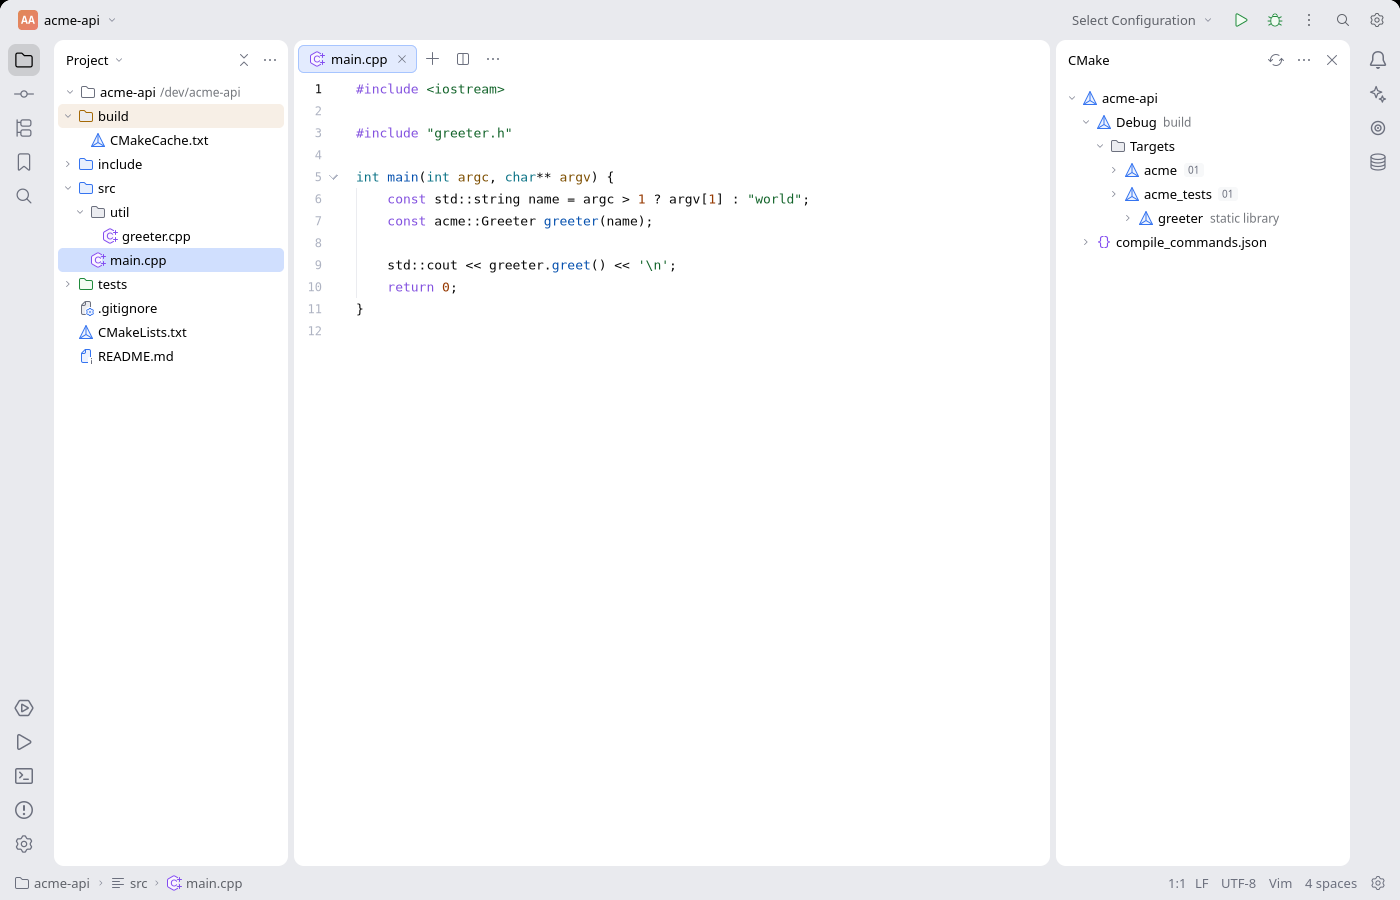
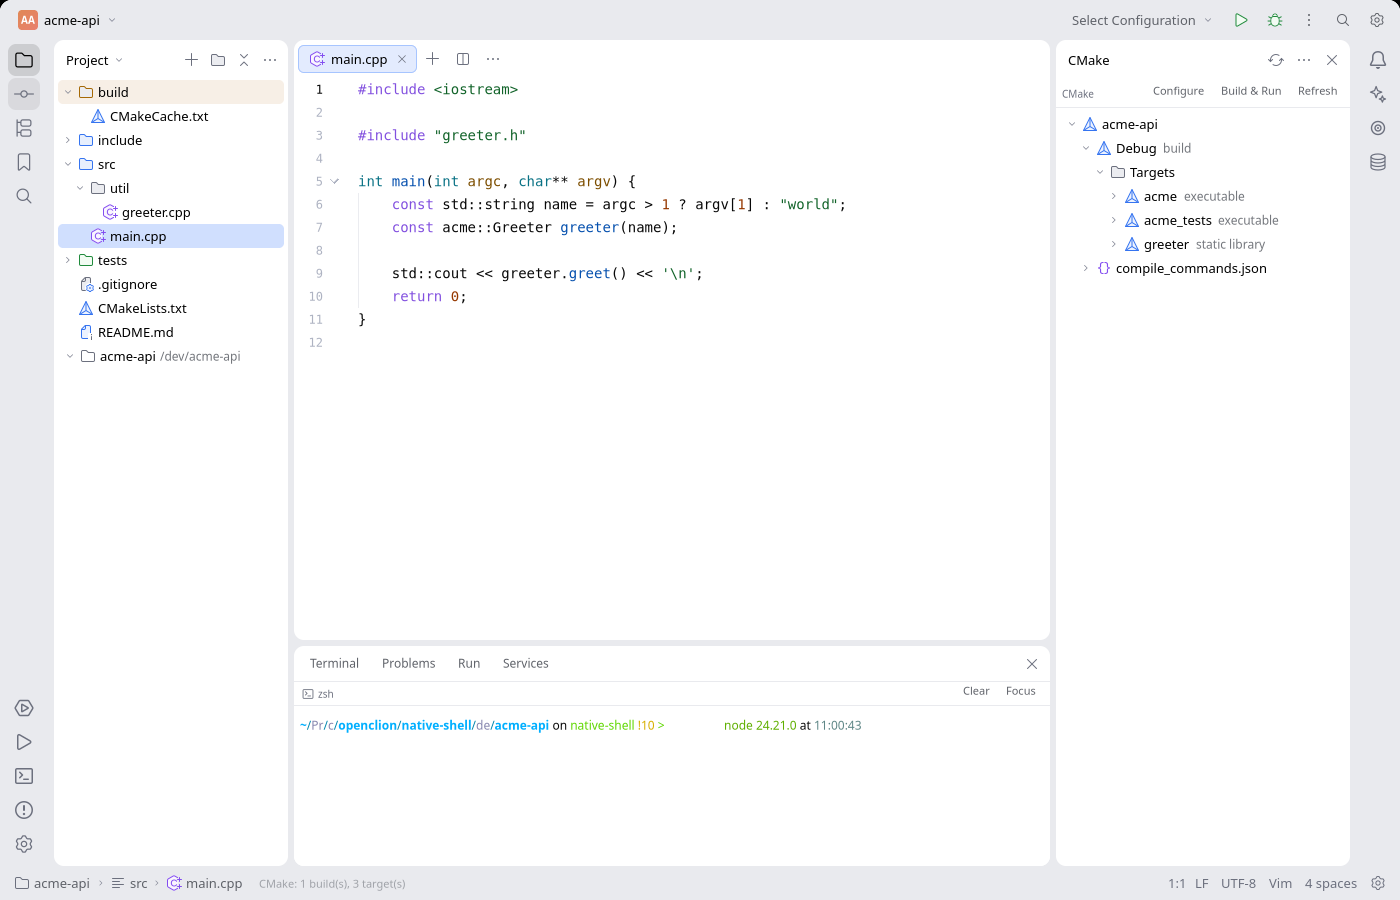
fix(native-shell): visible CMake/Commit actions, terminal chrome and bottom project root
CMake gains a labelled Configure / Build & Run / Refresh toolbar. Commit gains a message field and Commit button backed by ide-vcs stage+commit (Ctrl+K). The Terminal gets a padded surface, zsh/Clear/Focus toolbar, automatic focus and a taller default panel. The project root is now a bottom row with an upward chevron; clicking it collapses the whole project and clicking again expands the root. Added Alt+1 for Project.

diff --git a/native-shell/src/ui/panels.rs b/native-shell/src/ui/panels.rs
@@ -70,6 +70,31 @@ fn header_action(pal: Palette, markup: &'static str, on_press: impl Fn() + 'stat
 }
 
 fn cmake_body(state: State, pal: Palette) -> impl IntoElement {
+    view()
+        .flex_col()
+        .w_full()
+        .h_full()
+        .child(
+            view()
+                .h(px(28.0))
+                .flex_none()
+                .w_full()
+                .flex_row()
+                .items_center()
+                .gap(px(4.0))
+                .px(px(6.0))
+                .border_b_1()
+                .border_color(pal.border)
+                .child(text_muted("CMake", 10.0, pal))
+                .child(view().flex_1())
+                .child(debug_text_button(pal, "Configure", move || state.configure_cmake()))
+                .child(debug_text_button(pal, "Build & Run", move || state.run_active_configuration()))
+                .child(debug_text_button(pal, "Refresh", move || state.refresh_cmake())),
+        )
+        .child(cmake_tree(state, pal))
+}
+
+fn cmake_tree(state: State, pal: Palette) -> impl IntoElement {
     scroll().flex_1().w_full().min_h(px(0.0)).child(dynamic(move || {
         let model = state.cmake.get();
         let mut rows: Vec<View> = Vec::new();
@@ -731,21 +756,52 @@ fn terminal_body(state: State, pal: Palette) -> impl IntoElement {
             crate::terminal::flush(state);
         });
     });
-    view().flex_1().w_full().min_h(px(0.0)).p(px(4.0)).bg(pal.bg_island).child(
-        nsh_base::terminal()
-            .component_ref(&state.terminal_ref)
-            .flex_1()
-            .w_full()
-            .font_family(MONO_FONT.family)
-            .font_size(px(12.0))
-            .line_height(px(18.0))
-            .on_data(move |data: &SharedString| crate::terminal::send(state, data))
-            .on_resize(move |event: &nsh_base::TerminalEvent| {
-                if let nsh_base::TerminalEvent::Resize(cols, rows) = event {
-                    crate::terminal::resize(state, *cols, *rows);
-                }
-            }),
-    )
+    effect(move || {
+        if state.show_bottom.get() && state.bottom_tool.get() == Some(BottomTool::Terminal) {
+            set_timeout(std::time::Duration::from_millis(80), move || {
+                crate::terminal::focus(state);
+            });
+        }
+    });
+    view()
+        .flex_col()
+        .flex_1()
+        .w_full()
+        .min_h(px(0.0))
+        .child(
+            view()
+                .h(px(24.0))
+                .flex_none()
+                .w_full()
+                .flex_row()
+                .items_center()
+                .gap(px(4.0))
+                .px(px(8.0))
+                .border_b_1()
+                .border_color(pal.border)
+                .child(icon(icons::TERMINAL, 12.0, pal.fg_muted))
+                .child(text_muted("zsh", 10.0, pal))
+                .child(view().flex_1())
+                .child(debug_text_button(pal, "Clear", move || crate::terminal::clear(state)))
+                .child(debug_text_button(pal, "Focus", move || crate::terminal::focus(state))),
+        )
+        .child(
+            view().flex_1().w_full().min_h(px(0.0)).p(px(6.0)).bg(pal.bg_island).child(
+                nsh_base::terminal()
+                    .component_ref(&state.terminal_ref)
+                    .flex_1()
+                    .w_full()
+                    .font_family(MONO_FONT.family)
+                    .font_size(px(12.0))
+                    .line_height(px(18.0))
+                    .on_data(move |data: &SharedString| crate::terminal::send(state, data))
+                    .on_resize(move |event: &nsh_base::TerminalEvent| {
+                        if let nsh_base::TerminalEvent::Resize(cols, rows) = event {
+                            crate::terminal::resize(state, *cols, *rows);
+                        }
+                    }),
+            ),
+        )
 }
 
 fn problems_body(state: State, pal: Palette) -> impl IntoElement {

diff --git a/native-shell/src/ui/tree_panel.rs b/native-shell/src/ui/tree_panel.rs
@@ -78,13 +78,21 @@ fn project_panel(state: State, pal: Palette) -> impl IntoElement {
                     state.status.set("Project view options".to_owned());
                 })),
         ))
-        .child(scroll().flex_1().w_full().min_h(px(0.0)).child(
-            view().flex_col().w_full().pt(px(0.0)).pb(px(8.0)).child(root_row(state, pal)).child(dynamic(move || {
-                state.tree_rev.get();
-                let rows = state.rows();
-                view().flex_col().w_full().children(rows.into_iter().map(|row| tree_row(state, pal, row)))
-            })),
-        ))
+        .child(
+            scroll().flex_1().w_full().min_h(px(0.0)).child(
+                view()
+                    .flex_col()
+                    .w_full()
+                    .pt(px(0.0))
+                    .pb(px(8.0))
+                    .child(dynamic(move || {
+                        state.tree_rev.get();
+                        let rows = state.rows();
+                        view().flex_col().w_full().children(rows.into_iter().map(|row| tree_row(state, pal, row)))
+                    }))
+                    .child(root_row(state, pal)),
+            ),
+        )
 }
 
 fn root_row(state: State, pal: Palette) -> impl IntoElement {
@@ -111,7 +119,13 @@ fn root_row(state: State, pal: Palette) -> impl IntoElement {
         .on_press(move || {
             let root = state.root.get().to_string_lossy().to_string();
             state.selected.set(Some(root.clone()));
-            state.toggle_dir(&root);
+            let expanded = state.expanded.get();
+            if expanded.is_empty() {
+                state.expanded.set(vec![root]);
+            } else {
+                // The root row doubles as collapse-all for the whole project.
+                state.expanded.set(Vec::new());
+            }
         })
         .on_context_menu(move |event: &ContextMenuEvent| {
             let root = state.root.get();
@@ -233,6 +247,47 @@ fn commit_panel(state: State, pal: Palette) -> impl IntoElement {
                 }))
                 .child(header_action(pal, icons::MORE_HORIZONTAL, move || {})),
         ))
+        .child(
+            view()
+                .h(px(36.0))
+                .flex_none()
+                .w_full()
+                .flex_row()
+                .items_center()
+                .gap(px(6.0))
+                .px(px(8.0))
+                .border_b_1()
+                .border_color(pal.border)
+                .child(
+                    input()
+                        .flex_1()
+                        .h(px(24.0))
+                        .bg(pal.bg_island)
+                        .text_color(pal.fg)
+                        .text_size(px(12.0))
+                        .placeholder("Commit message")
+                        .value(move || state.commit_message.get())
+                        .on_change(move |value: &str| state.commit_message.set(value.to_owned()))
+                        .on_submit(move |_: &str| state.commit_all()),
+                )
+                .child(
+                    view()
+                        .h(px(24.0))
+                        .px(px(10.0))
+                        .items_center()
+                        .justify_center()
+                        .rounded(px(5.0))
+                        .bg(move || {
+                            if state.commit_message.get().trim().is_empty() {
+                                pal.accent.opacity(0.55)
+                            } else {
+                                pal.accent
+                            }
+                        })
+                        .on_press(move || state.commit_all())
+                        .child(text_ui("Commit", 12.0, white().into())),
+                ),
+        )
         .child(scroll().flex_1().child(dynamic(move || {
             let rows = state.vcs.get();
             let loading = state.vcs_loading.get();

diff --git a/native-shell/src/backend.rs b/native-shell/src/backend.rs
@@ -302,6 +302,51 @@ impl State {
         });
     }
 
+    /// Stages every working-tree change and commits it with the typed message.
+    pub fn commit_all(&self) {
+        let message = self.commit_message.get().trim().to_owned();
+        if message.is_empty() {
+            self.status.set("Commit message is empty".to_owned());
+            return;
+        }
+        let root = self.root.get();
+        let state = *self;
+        self.vcs_loading.set(true);
+        spawn(async move {
+            let result = blocking(move || -> Result<String, String> {
+                let Ok(Some(repo)) = Repo::discover(&root) else {
+                    return Err("No git repository".to_owned());
+                };
+                let paths: Vec<PathBuf> = repo
+                    .status()
+                    .map_err(|error| error.message)?
+                    .into_iter()
+                    .filter(|status| status.unstaged.is_some())
+                    .map(|status| status.path.into_path_buf())
+                    .collect();
+                if !paths.is_empty() {
+                    repo.stage(&paths).map_err(|error| error.message)?;
+                }
+                let id = repo.commit(&message, false, false).map_err(|error| error.message)?;
+                Ok(id.chars().take(8).collect())
+            })
+            .await;
+            let result = match result {
+                Ok(inner) => inner,
+                Err(error) => Err(format!("commit task failed: {error}")),
+            };
+            state.vcs_loading.set(false);
+            match result {
+                Ok(id) => {
+                    state.commit_message.set(String::new());
+                    state.status.set(format!("Committed {id}"));
+                    state.refresh_vcs();
+                }
+                Err(error) => state.status.set(format!("Commit failed: {error}")),
+            }
+        });
+    }
+
     /// Reads git status and the current branch in the background.
     pub fn refresh_vcs(&self) {
         let state = *self;

diff --git a/native-shell/src/model.rs b/native-shell/src/model.rs
@@ -189,6 +189,7 @@ pub struct State {
     pub run_chooser: Signal<bool>,
     pub docker: Signal<Option<crate::backend::DockerView>>,
     pub docker_busy: Signal<bool>,
+    pub commit_message: Signal<String>,
     pub debug_watch: Signal<Vec<String>>,
     pub debug_watch_input: Signal<String>,
     pub debug_watch_values: Signal<Vec<crate::debug::WatchValue>>,
@@ -301,6 +302,7 @@ impl State {
             run_chooser: signal(false),
             docker: signal(None),
             docker_busy: signal(false),
+            commit_message: signal(String::new()),
             debug_watch: signal(Vec::new()),
             debug_watch_input: signal(String::new()),
             debug_watch_values: signal(Vec::new()),
@@ -317,7 +319,7 @@ impl State {
             toast: signal(None),
             left_width: signal(234.0),
             right_width: signal(294.0),
-            bottom_height: signal(220.0),
+            bottom_height: signal(260.0),
             show_left: signal(true),
             show_right: signal(true),
             show_bottom: signal(false),

diff --git a/native-shell/src/lib.rs b/native-shell/src/lib.rs
@@ -93,6 +93,14 @@ fn install_shortcuts(state: State) {
         crate::debug::toggle_breakpoint(state, state.cursor.get().0.saturating_sub(1));
     });
     on_key("mod+alt+s", move |_| state.settings.set(true));
+    on_key("alt+1", move |_| {
+        state.left_tool.set(crate::model::LeftTool::Project);
+        state.show_left.set(true);
+    });
+    on_key("ctrl+k", move |_| {
+        state.left_tool.set(crate::model::LeftTool::Commit);
+        state.show_left.set(true);
+    });
     on_key("mod+f", move |_| {
         state.find_open.set(true);
         state.replace_open.set(false);

diff --git a/native-shell/src/terminal.rs b/native-shell/src/terminal.rs
@@ -82,6 +82,19 @@ pub fn flush(state: State) {
     }
 }
 
+/// Gives the Terminal component keyboard focus.
+pub fn focus(state: State) {
+    if let Some(api) = state.terminal_ref.api::<TerminalApi>() {
+        api.focus();
+    }
+}
+
+/// Clears the screen and redraws the prompt in the shell.
+pub fn clear(state: State) {
+    send(state, "clear\n");
+    focus(state);
+}
+
 pub fn send(state: State, data: &str) {
     if let Some(session) = state.terminal_session.get() {
         let _ = session.manager.write(session.id, data);

diff --git a/native-shell/src/settings.rs b/native-shell/src/settings.rs
@@ -27,7 +27,7 @@ impl Default for Persisted {
         Self {
             left_width: 234.0,
             right_width: 294.0,
-            bottom_height: 220.0,
+            bottom_height: 260.0,
             editor_font: 13.0,
             recent: Vec::new(),
             show_left: true,

diff --git a/native-shell/README.md b/native-shell/README.md
@@ -39,27 +39,28 @@ native-shell/
 The shell is not a mock: it links the same `crates/ide-*` crates the Tauri
 backend uses.
 
-| Feature            | Backend                                               | In the shell                                                                                                                                                                                     |
-| ------------------ | ----------------------------------------------------- | ------------------------------------------------------------------------------------------------------------------------------------------------------------------------------------------------ |
-| CMake model        | `ide-cmake` (`load`, File API reply, presets)         | CMake tool window: builds, targets, kinds, `compile_commands.json`; falls back to `add_executable`/`add_library` before the first configure                                                      |
-| Configure          | `cmake -S . -B build` + `ide_cmake::request`          | click the configuration widget; output streams into the Terminal panel                                                                                                                           |
-| Build / Run        | `cmake --build … --target …` + the artifact           | title-bar green Run; output and the program's stdout land in the Terminal                                                                                                                        |
-| Run configurations | `ide-cmake` executables                               | the title-bar widget opens a chooser of CMake executable targets; the selected target drives Run, Debug and the Run tool window                                                                  |
-| Git status         | `ide-vcs` (`Repo::discover`, `status`, `branch_info`) | Commit tool window with branch, changed files and staged/unstaged letters; tree files are tinted by status                                                                                       |
-| Find in Files      | `ide-search` (ripgrep engine)                         | Ctrl+Shift+F search panel with parallel, ignore-aware results                                                                                                                                    |
-| clangd diagnostics | `ide-lsp` + `ide-language`                            | documents open/change/close on clangd; native editor squiggles and Problems rows; server state in the status bar                                                                                 |
-| clangd completion  | `ide-lsp` completion                                  | typing (and `.`/`->`/`::`/`<`) opens the native completion list with kinds, details and documentation                                                                                            |
-| Go to definition   | `ide-lsp` goto                                        | F12 on a symbol opens the target and places the caret at the definition                                                                                                                          |
-| Find / Replace     | nsh Editor search + commands                          | Ctrl+F opens the find bar with match counts and next/previous; Ctrl+H adds replacement with Replace and Replace All                                                                              |
-| Format document    | `ide-lsp` `textDocument/formatting`                   | Ctrl+Alt+L formats the active document in memory through clangd, keeping the buffer dirty until saved                                                                                            |
-| Find Usages        | `ide-lsp` `textDocument/references`                   | Alt+F7 lists project references in a Usages tool window; a click opens the file and places the caret                                                                                             |
-| Rename symbol      | `ide-lsp` `textDocument/rename`                       | Shift+F6 prefills the word at the caret and applies clangd's WorkspaceEdit to open buffers and disk, then refreshes tree and VCS                                                                 |
-| Terminal           | `ide-terminal` (portable-pty) + nsh `Terminal`        | a real login shell with ANSI colours, resize and input; Configure/Build/Run output is written into it                                                                                            |
-| Debugging          | `ide-dap` + lldb-dap                                  | title-bar bug launches the CMake executable; F9 toggles a breakpoint; Breakpoints list with enable toggles, Condition and Logpoint dialogs; Continue/Step/Stop, frames, expandable locals, Watch |
-| Services (Docker)  | `ide-docker`                                          | Services tool window shows daemon status, containers and image count; Start/Stop acts on a container and refreshes the snapshot                                                                  |
-| File operations    | `std::fs` + native dialogs                            | + / folder creates; right-click offers New File/Folder, Rename file (F2), Delete, Copy Path and Reveal; tabs and tree follow renames                                                             |
-| File watcher       | `notify` + `notify-debouncer-full`                    | external creates/renames/deletes rebuild the tree and refresh git status                                                                                                                         |
-| Settings           | nsh `Storage` + `serde_json`                          | Appearance/Editor/Keymap/Plugins/Build pages; font size, layout and recent projects persist; Keymap lists shortcuts, Plugins the bundled integrations                                            |
+| Feature             | Backend                                                   | In the shell                                                                                                                                                                                     |
+| ------------------- | --------------------------------------------------------- | ------------------------------------------------------------------------------------------------------------------------------------------------------------------------------------------------ |
+| CMake model         | `ide-cmake` (`load`, File API reply, presets)             | CMake tool window with a visible Configure / Build & Run / Refresh toolbar; builds, targets, kinds, `compile_commands.json`                                                                      |
+| Configure           | `cmake -S . -B build` + `ide_cmake::request`              | click the configuration widget; output streams into the Terminal panel                                                                                                                           |
+| Build / Run         | `cmake --build … --target …` + the artifact               | title-bar green Run; output and the program's stdout land in the Terminal                                                                                                                        |
+| Run configurations  | `ide-cmake` executables                                   | the title-bar widget opens a chooser of CMake executable targets; the selected target drives Run, Debug and the Run tool window                                                                  |
+| Git status / commit | `ide-vcs` (`Repo::discover`, `status`, `stage`, `commit`) | Commit tool window (Ctrl+K) with branch, changed files, a message field and a Commit button that stages and commits; tree files are tinted by status                                             |
+| Find in Files       | `ide-search` (ripgrep engine)                             | Ctrl+Shift+F search panel with parallel, ignore-aware results                                                                                                                                    |
+| clangd diagnostics  | `ide-lsp` + `ide-language`                                | documents open/change/close on clangd; native editor squiggles and Problems rows; server state in the status bar                                                                                 |
+| clangd completion   | `ide-lsp` completion                                      | typing (and `.`/`->`/`::`/`<`) opens the native completion list with kinds, details and documentation                                                                                            |
+| Go to definition    | `ide-lsp` goto                                            | F12 on a symbol opens the target and places the caret at the definition                                                                                                                          |
+| Find / Replace      | nsh Editor search + commands                              | Ctrl+F opens the find bar with match counts and next/previous; Ctrl+H adds replacement with Replace and Replace All                                                                              |
+| Format document     | `ide-lsp` `textDocument/formatting`                       | Ctrl+Alt+L formats the active document in memory through clangd, keeping the buffer dirty until saved                                                                                            |
+| Find Usages         | `ide-lsp` `textDocument/references`                       | Alt+F7 lists project references in a Usages tool window; a click opens the file and places the caret                                                                                             |
+| Rename symbol       | `ide-lsp` `textDocument/rename`                           | Shift+F6 prefills the word at the caret and applies clangd's WorkspaceEdit to open buffers and disk, then refreshes tree and VCS                                                                 |
+| Terminal            | `ide-terminal` (portable-pty) + nsh `Terminal`            | real login shell with ANSI colours and resize; padded surface, zsh label, Clear/Focus actions, automatic focus; build/run output streams in                                                      |
+| Debugging           | `ide-dap` + lldb-dap                                      | title-bar bug launches the CMake executable; F9 toggles a breakpoint; Breakpoints list with enable toggles, Condition and Logpoint dialogs; Continue/Step/Stop, frames, expandable locals, Watch |
+| Services (Docker)   | `ide-docker`                                              | Services tool window shows daemon status, containers and image count; Start/Stop acts on a container and refreshes the snapshot                                                                  |
+| File operations     | `std::fs` + native dialogs                                | + / folder creates; right-click offers New File/Folder, Rename file (F2), Delete, Copy Path and Reveal; tabs and tree follow renames                                                             |
+| Project tree        | `std::fs` walk + nsh views                                | the project root is a bottom row that expands the tree upward and collapses the whole project on a second click                                                                                  |
+| File watcher        | `notify` + `notify-debouncer-full`                        | external creates/renames/deletes rebuild the tree and refresh git status                                                                                                                         |
+| Settings            | nsh `Storage` + `serde_json`                              | Appearance/Editor/Keymap/Plugins/Build pages; font size, layout and recent projects persist; Keymap lists shortcuts, Plugins the bundled integrations                                            |
 
 All backend calls run off the engine thread (`nsh blocking`) and report
 through signals, so the workbench never stalls while CMake or git works.
@@ -116,6 +117,8 @@ cargo run
 | Close tab           | Ctrl+W or the tab's ×                                |
 | Find in Files       | Ctrl+Shift+F (or the rail magnifier)                 |
 | Terminal            | Ctrl+` or the rail terminal icon                     |
+| Commit              | Ctrl+K                                               |
+| Project             | Alt+1                                                |
 | Toggle tool windows | rail buttons, Ctrl+B (left), Ctrl+J (bottom)         |
 | Settings            | title-bar gear or the status-bar gear                |
 | Open project        | project name → Open… (system folder picker)          |
